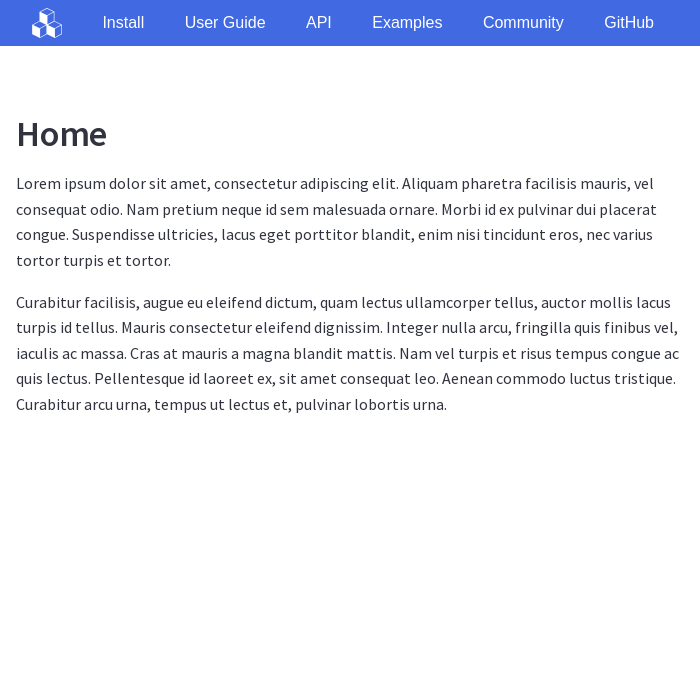
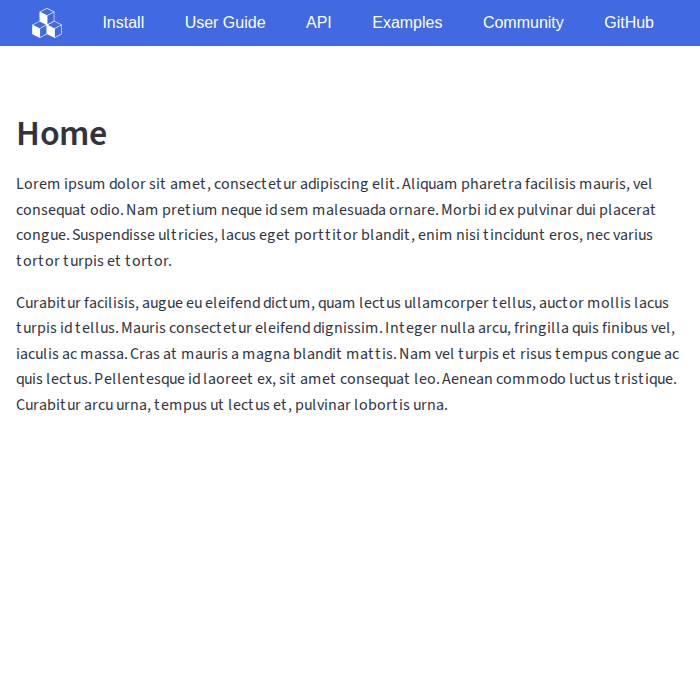
Update for streamlit 1.46.0 (#43)
* Update for streamlit 1.46.0
* Fix screenshots

diff --git a/streamlit_navigation_bar/templates/base.css b/streamlit_navigation_bar/templates/base.css
@@ -20,6 +20,7 @@ header[data-testid="stHeader"] {
 
     /* Match navbar's height, e.g. for when `margin` is `True` */
     height: {{ ui.height }};
+    min-height: {{ ui.height }};
 
     /* Match navbar's background color, e.g. for when `margin` is `True` */
     background-color: {{ ui.bg_color }};
@@ -38,7 +39,7 @@ div[data-testid="stAppViewBlockContainer"] {
 {% endif %}
 div[data-testid="stToolbar"] {
     /* Align the button vertically to the navbar pages */
-    top: calc(({{ ui.height }} - 2rem) / 2);
+    /* top: calc(({{ ui.height }} - 2rem) / 2); */
 
     /* Leave space to the left that is equal to the top and bottom */
     right: 0.3125rem;
@@ -47,6 +48,9 @@ div[class="stStatusWidget"] {
     visibility: hidden;
 }
 div[class="stDeployButton"] {
+    visibility: hidden;
+}
+div[class="stAppDeployButton"] {
     visibility: hidden;
 }
 span[data-testid="stMainMenu"] path:nth-of-type(2) {
@@ -61,10 +65,11 @@ span[data-testid="stMainMenu"] button[data-testid="baseButton-headerNoPadding"]:
 
 {# make the menu button clickable #}
 div[data-testid="stAppViewContainer"] {
-    pointer-events: none;
+    pointer-events: auto;
 }
 div[data-testid="stMainBlockContainer"] {
     pointer-events: none;
+    padding-top: 5rem;
 }
 div[data-testid="collapsedControl"], div[data-testid="stSidebarCollapsedControl"] {
     pointer-events: auto;

diff --git a/tests/test_examples.py b/tests/test_examples.py
@@ -56,7 +56,7 @@ def test_screenshot(page: Page, index):
         page.goto(f"localhost:{PORT}")
         page.set_viewport_size({"width": 700, "height": 700})
         expect.set_options(timeout=5_000)
-        sleep(1)
+        sleep(1.5)
         page.screenshot(path=f"/tmp/screenshot_new_{i}.png")
 
         img_a = Image.open(f"/tmp/screenshot_new_{i}.png")
